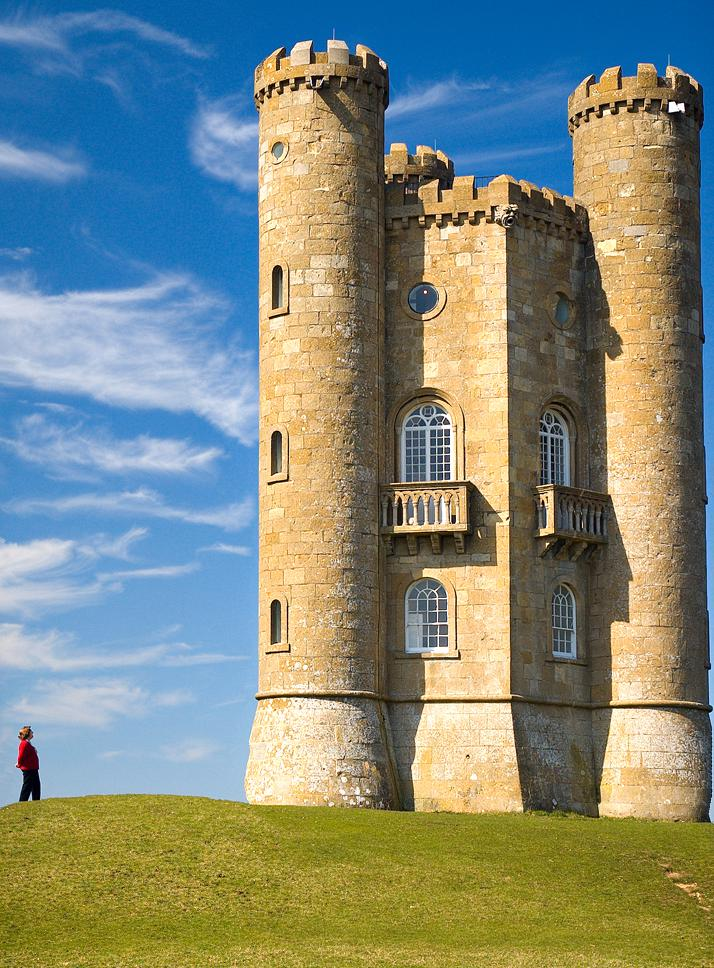
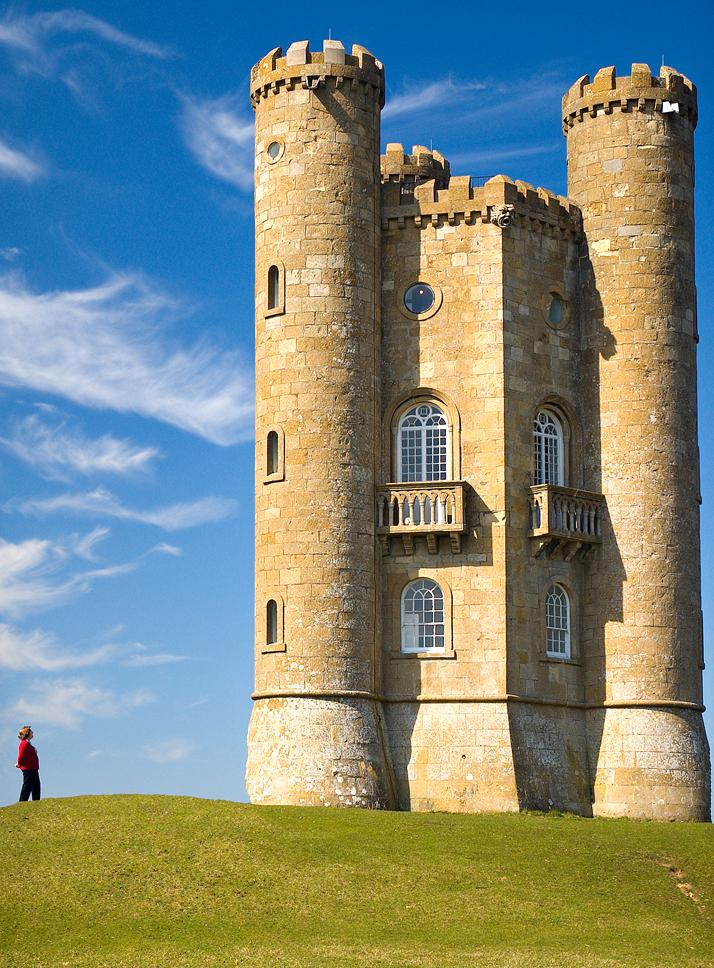
fix indexing issues

diff --git a/seam.py b/seam.py
@@ -72,18 +72,21 @@ def forward_energy(img):
     """
     # Creates a gray-scale version of the image
     im = np.dot(img[..., :3], [0.2989, 0.5870, 0.1140])
-    w, h = im.shape
+    h, w = im.shape
     cL = np.zeros(im.shape)
     cU = np.zeros(im.shape)
     cR = np.zeros(im.shape)
     E = np.zeros(im.shape)
-    for i in range(0, w):
-        for j in range(0, h):
+    for i in range(0, h):
+        for j in range(0, w):
+            # In case j is 0, we use j=0 so that j-1 is not -1
             jj = j if j == 0 else j - 1
+            # In case i is 0, we use i=0 so that i-1 is not -1
+            ii = i if i == 0 else i - 1
             # Compute cU, cL, cR as described in the paper
-            cU[i, j] = np.abs(im[i, jj+1] - im[i, jj-1])
-            cL[i, j] = cU[i, j] + np.abs(im[i-1, jj] - im[i, jj-1])
-            cR[i, j] = cU[i, j] + np.abs(im[i-1, jj] - im[i, jj+1])
+            cU[i, j] = np.abs(im[i, j+1] - im[i, jj])
+            cL[i, j] = cU[i, j] + np.abs(im[ii, j] - im[i, jj])
+            cR[i, j] = cU[i, j] + np.abs(im[ii, j] - im[i, j+1])
             # The energy is the minimum between cU, cL, cR
             E[i, j] = min(cU[i, j], cL[i, j], cR[i, j])
     return E
@@ -103,16 +106,19 @@ def find_min_seam(E):
     """
     M = E.copy()
     back = np.zeros(E.shape)
-    w, h = E.shape
-    for i in range(0, w):
-        for j in range(0, h):
+    h, w = E.shape
+    for i in range(0, h):
+        for j in range(0, w):
+            # In case j is 0, we only find the min between M(i-1,j) and M(i-1,j+1)
             jj = j if j == 0 else j - 1
-            # Finds the index of the seam
-            k = np.argmin(M[i-1, jj:j+2]) + jj
-            # Computes the minimal aggregate cost of a seam
-            M[i, j] = E[i, j] + M[i-1, k]
+            # In case i is 0, we use i=0 so that i-1 is not -1
+            ii = i if i == 0 else i - 1
+            # Find index of min between M(i-1,j-1), M(i-1,j), and M(i-1,j+1)
+            min_j = np.argmin(M[ii, jj:j+2]) + jj
+            # Computes the minimal aggregate cost
+            M[i, j] = E[i, j] + M[ii, min_j]
             # Stores the index for backtracking
-            back[i, j] = k
+            back[i, j] = min_j
     # Returns the last index of M which is the minimum seam
     return M[-1], back.astype(np.int)
 
@@ -165,7 +171,7 @@ def seam_carving(img, scale, energy_func, vertical=False, show_live=False):
     # Transposes the image for vertical resizing
     img = np.transpose(img, (1, 0, 2)) if vertical else img
     # Computes the number of rows/columns to remove from the image
-    num_remove = img.shape[1] - int(img.shape[1] * scale)
+    num_remove = int(img.shape[1] * (1 - scale))
     for _ in range(num_remove):
         E = energy_func(img)
         seam, back = find_min_seam(E)
